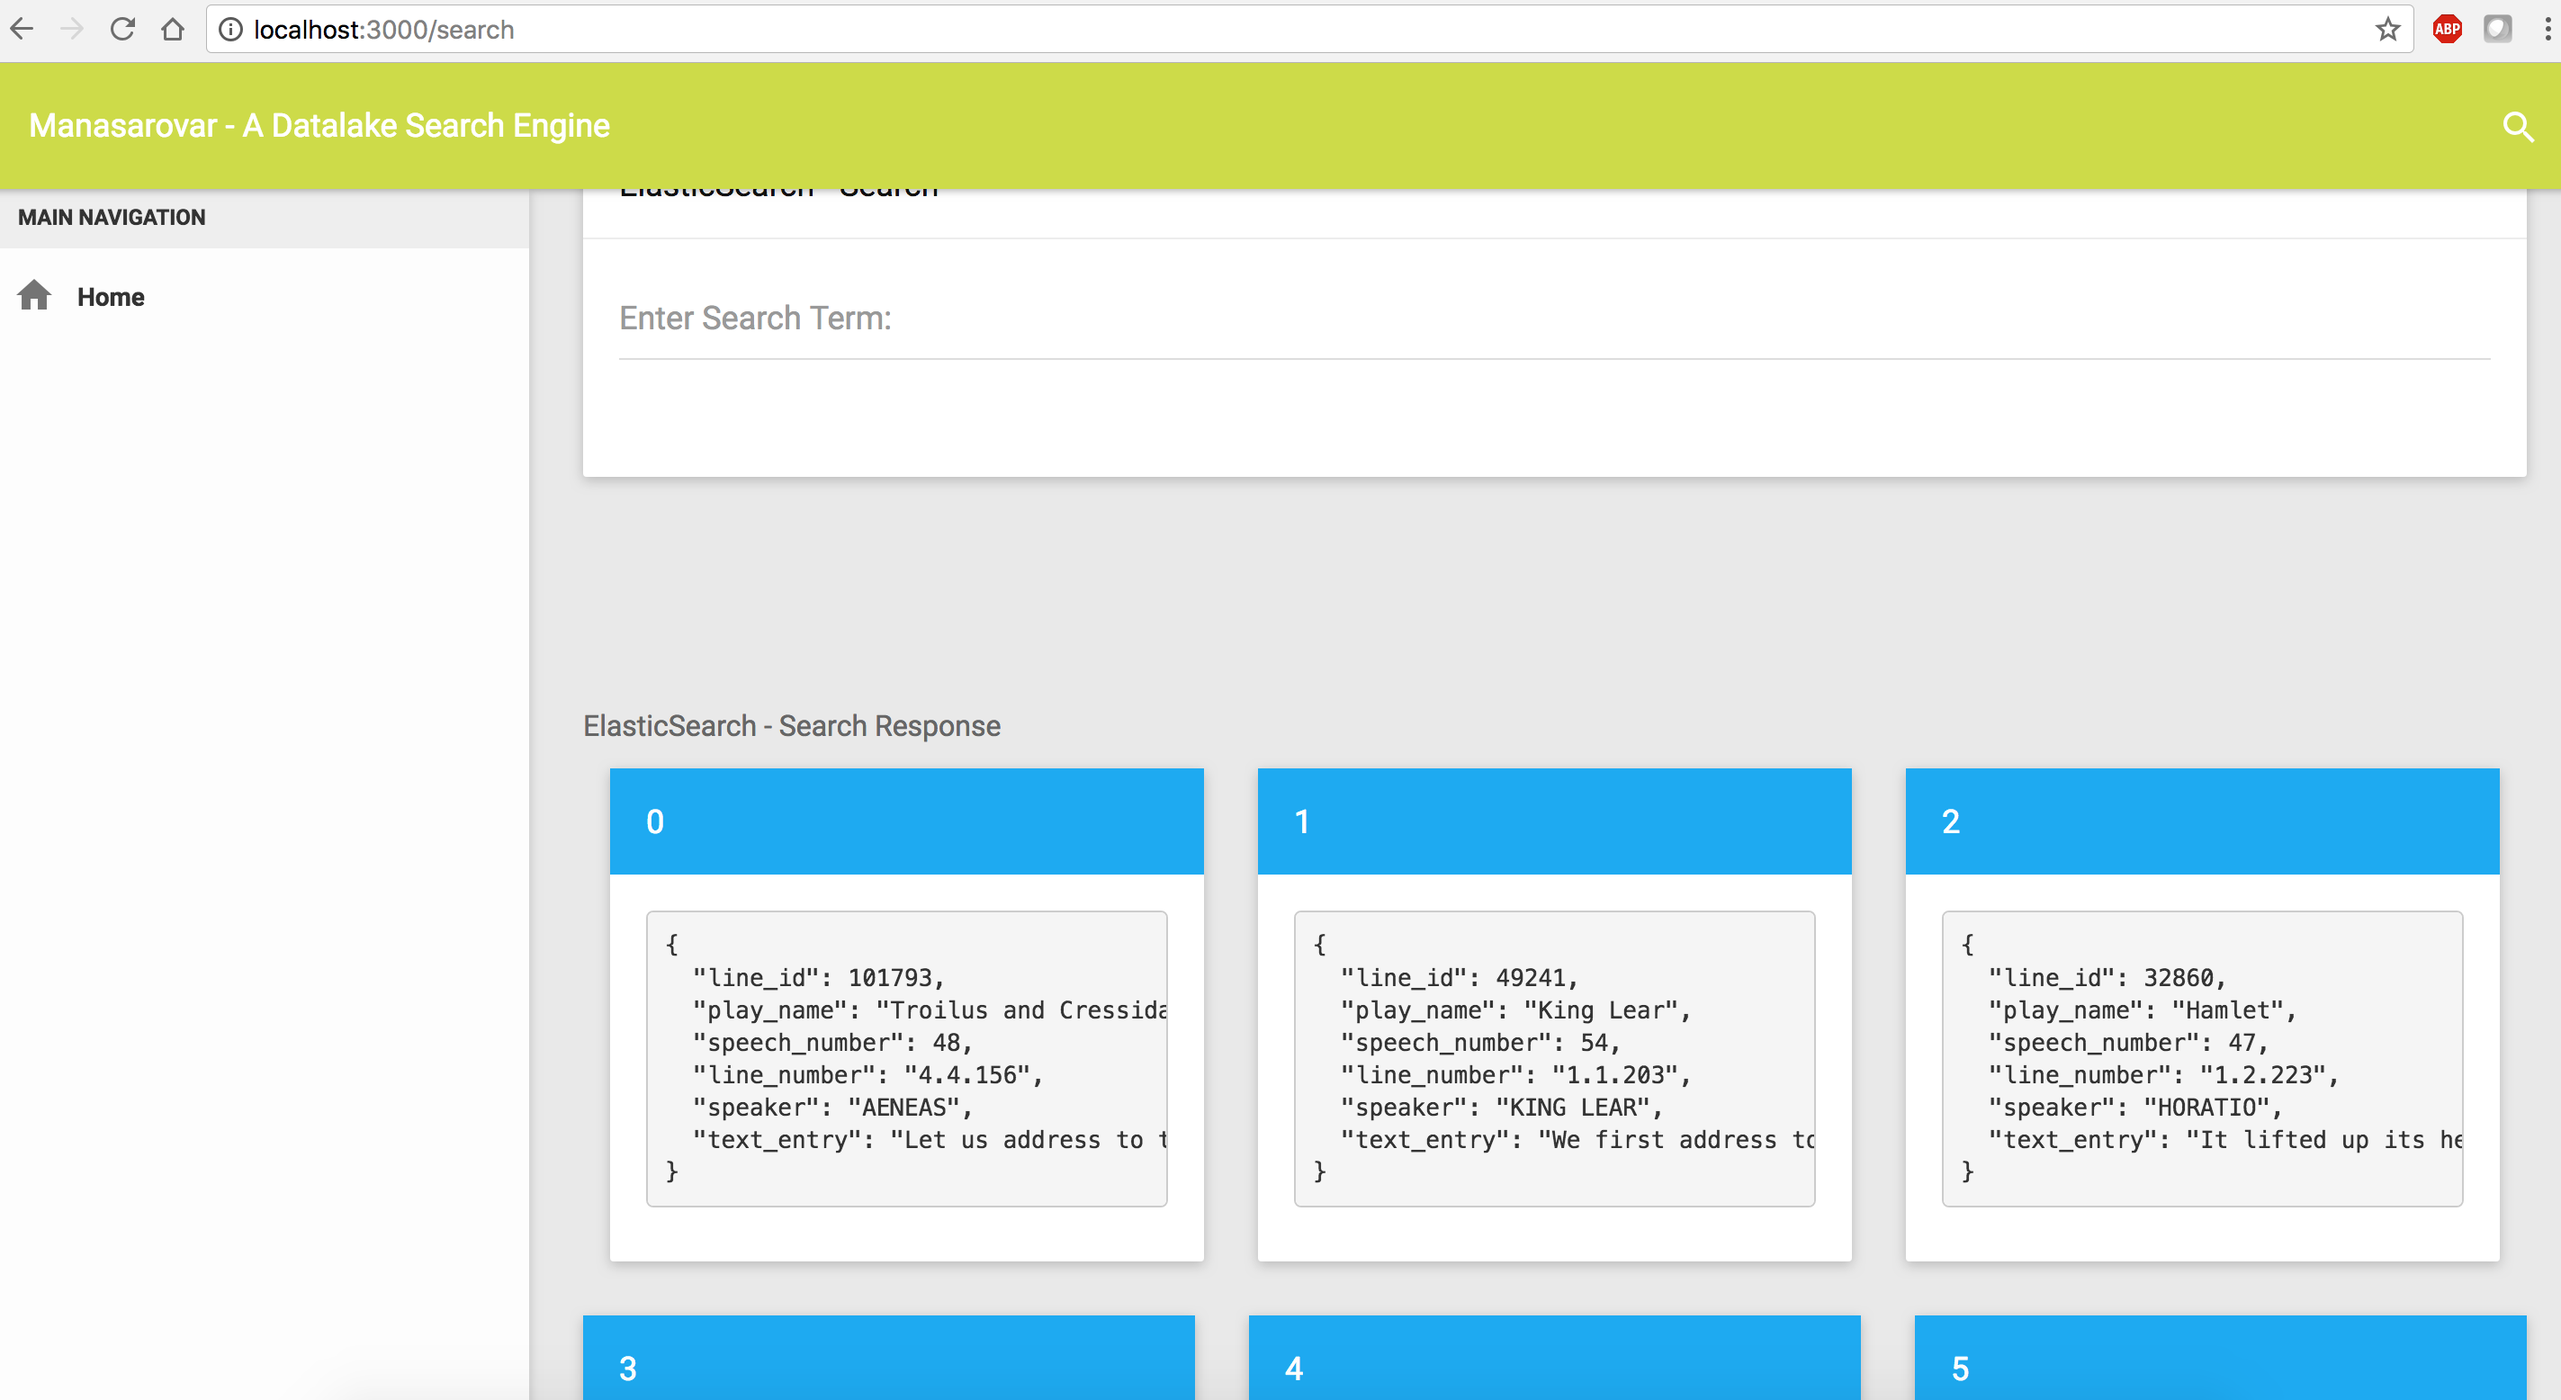
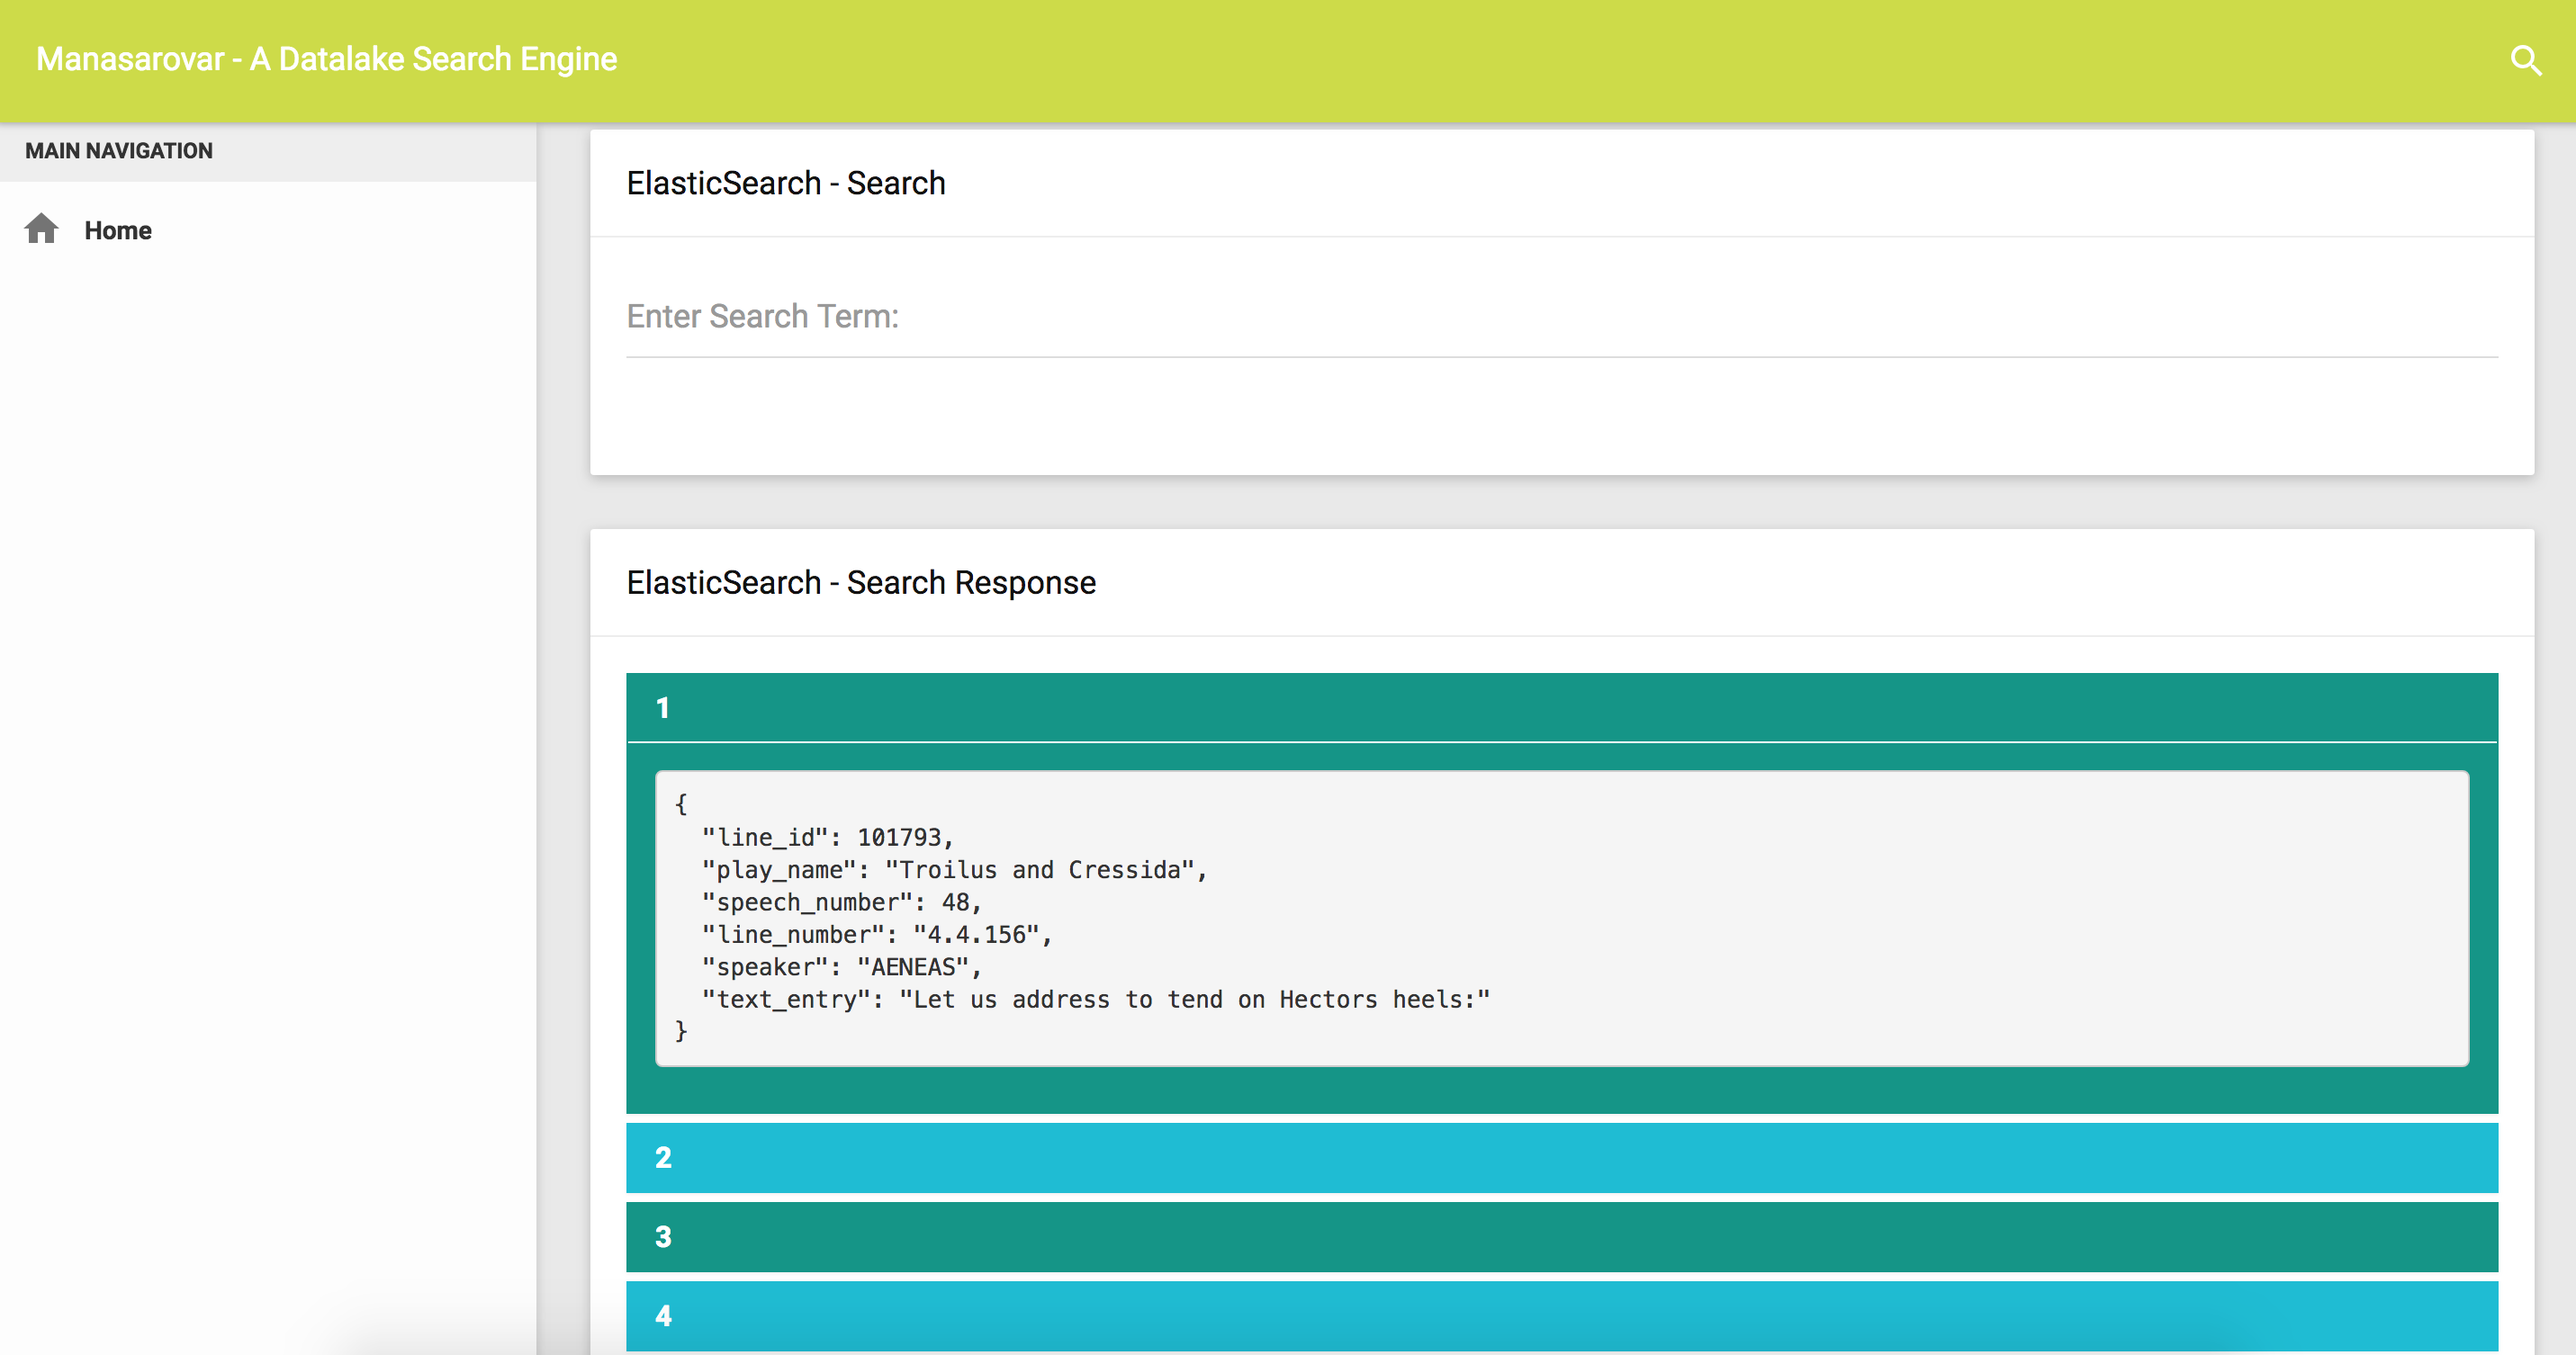
updated UI

diff --git a/routes/index.js b/routes/index.js
@@ -14,17 +14,20 @@ var client = new elasticsearch.Client({
 
 const getjson = {
   es_body(body) {
+    var search_resp_header_template = fs.readFileSync('routes/search_resp_header.template', { 'encoding': 'utf8'});
     var search_resp_template = fs.readFileSync('routes/search_resp.template', { 'encoding': 'utf8'});
-    es_resp = '<div new_row>'
+    var search_resp_footer_template = fs.readFileSync('routes/search_resp_footer.template', { 'encoding': 'utf8'});
+    es_resp = search_resp_header_template
     count = 0
     body.hits.hits.forEach(function(elem) {
-      if(count == 3 || count == 6 || count == 9) {
-        es_resp = es_resp + '</div><div class="row">'
-      }
-      es_resp = es_resp + search_resp_template.replace('es_header', count).replace('es_resp',JSON.stringify(elem._source, null, 2))
       count = count + 1
+      if(count % 2 ==  0) {
+        es_resp = es_resp + search_resp_template.replace(new RegExp('resp_col','g'), 'cyan').replace(new RegExp('resp_id','g'), count).replace(new RegExp('resp_json','g'),JSON.stringify(elem._source, null, 2))
+      } else {
+        es_resp = es_resp + search_resp_template.replace(new RegExp('resp_col','g'), 'teal').replace(new RegExp('resp_id','g'), count).replace(new RegExp('resp_json','g'),JSON.stringify(elem._source, null, 2))
+      }
     })
-    es_resp = es_resp + '</div>'
+    es_resp = es_resp + search_resp_footer_template
     return es_resp
   }
 }
